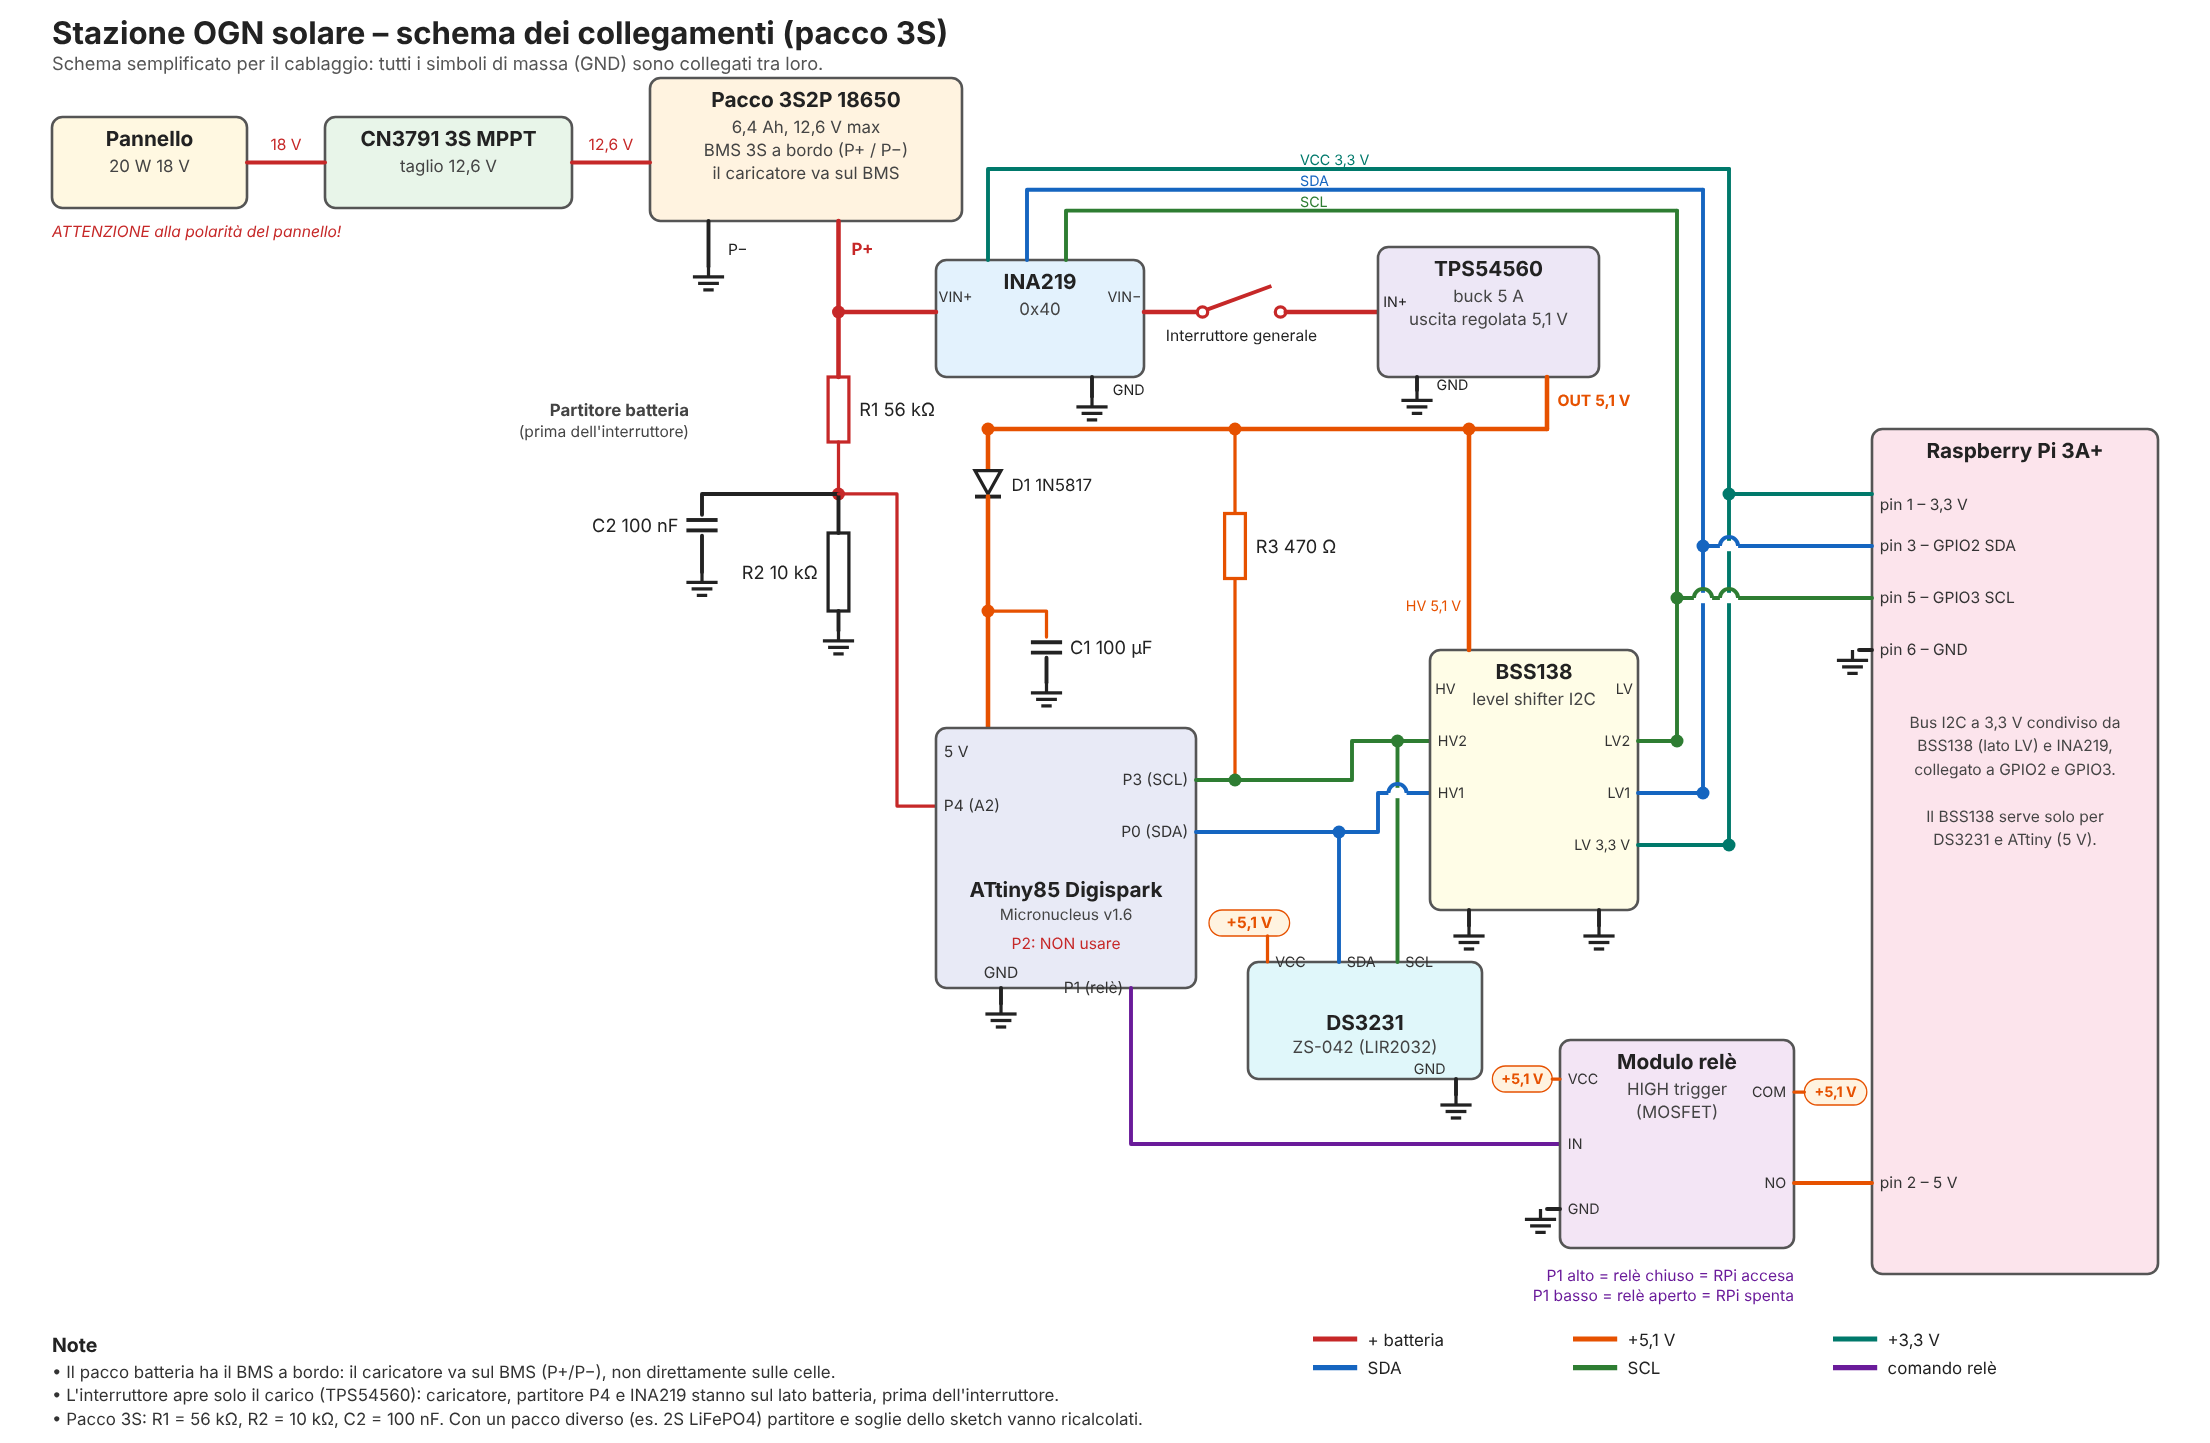
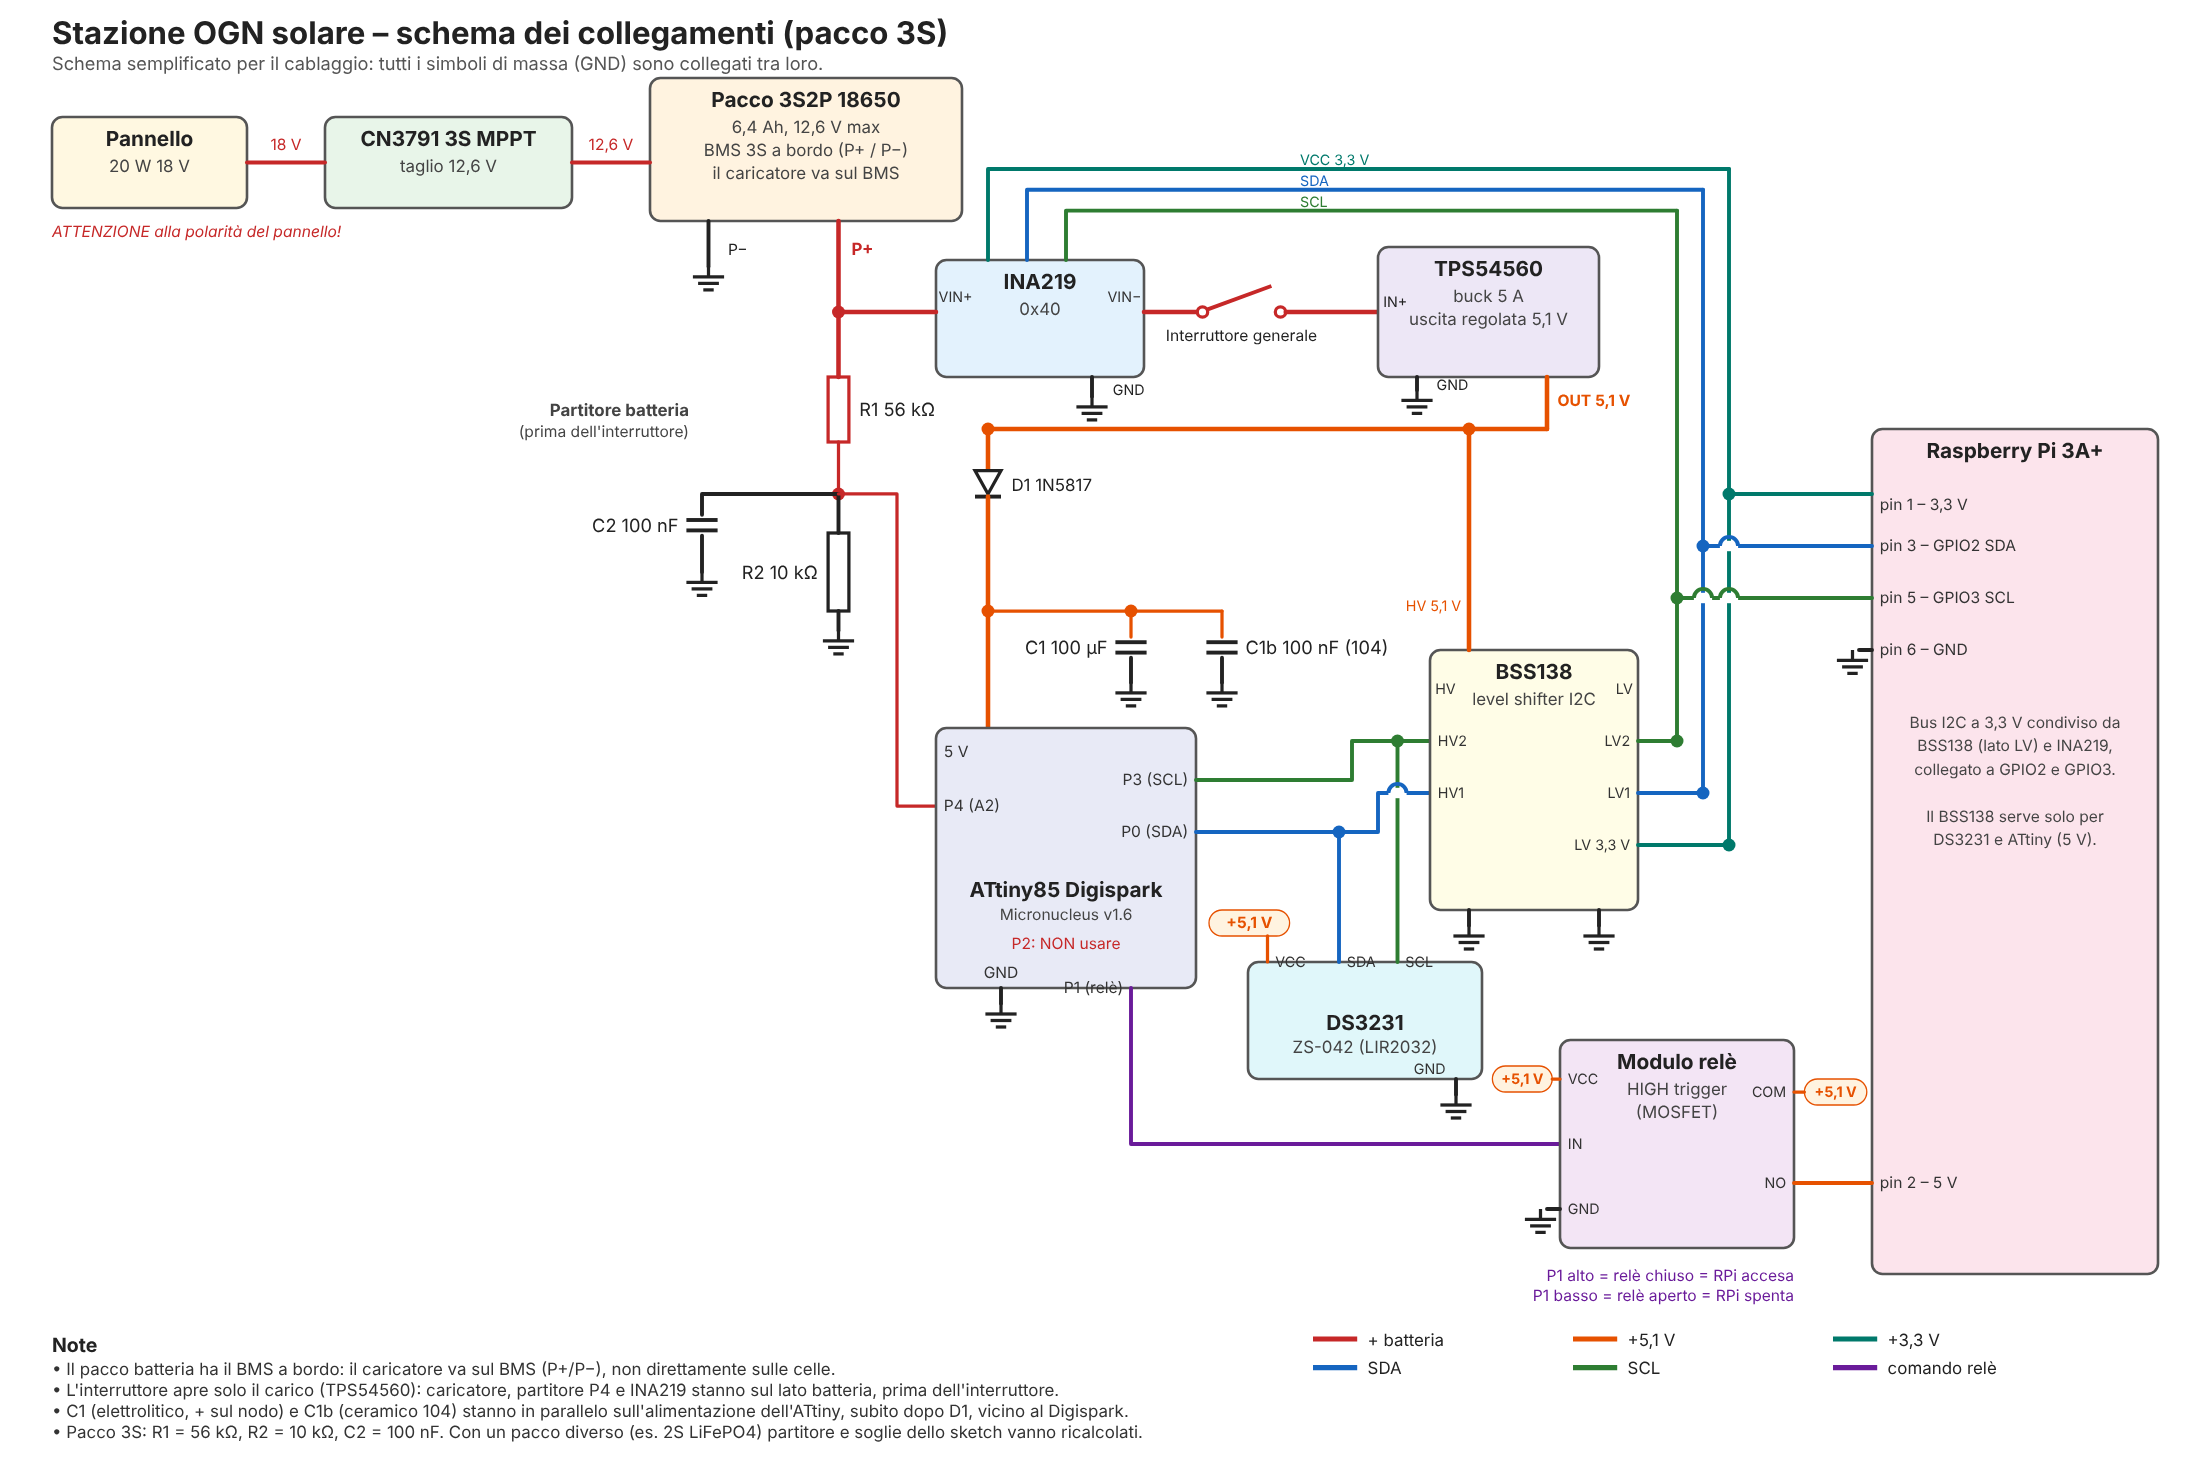
Schema e documentazione: rimossa R3 (pull-up 470 ohm), aggiunto C1b 100 nF in parallelo a C1
Claude-Session: https://claude.ai/code/session_01PcGQ9EdoJzeQdK5e1YwwCo

diff --git a/OGN-Solar-Receiver-Documentazione_1.6.md b/OGN-Solar-Receiver-Documentazione_1.6.md
@@ -84,8 +84,8 @@ Alle 10:00 CEST un ATtiny85 legge l'orario da un RTC DS3231 e chiude un relè ch
 | R2 | 10 kΩ | Partitore batteria (lato basso) |
 | C2 | 100 nF ceramico | Tra P4 e GND, stabilizza la lettura ADC |
 | D1 | 1N5817 Schottky | In serie su VCC ATtiny |
-| C1 | 100 µF elettrolitico | Su VCC ATtiny |
-| R3 | 470 Ω | Pull-up SCL su P3 verso 5 V |
+| C1 | 100 µF elettrolitico (+ sul nodo VCC) | Su VCC ATtiny, dopo D1 |
+| C1b | 100 nF ceramico (104) | In parallelo a C1, vicino al Digispark |
 
 ---
 
@@ -138,7 +138,7 @@ ATtiny85 Digispark      Collegamento
 P0 (SDA)         ------ SDA DS3231 (lato HV del BSS138)
 P1 (Relè)        ------ IN modulo relè (HIGH trigger)
 P2                      NON USARE (problemi bootloader v1.6)
-P3 (SCL)         ------ SCL DS3231 (lato HV del BSS138) + pull-up 470 Ω a 5 V
+P3 (SCL)         ------ SCL DS3231 (lato HV del BSS138)  [pull-up già sul Digispark (1,5 kΩ) e sul modulo DS3231]
 P4 (A2, ADC)     ------ nodo partitore batteria (+ 100 nF verso GND)
 5V               ------ catodo 1N5817 (anodo sul 5.1 V) + 100 µF verso GND
 GND              ------ GND
@@ -216,8 +216,7 @@ P1 HIGH = relè chiuso  = RPi ACCESA
 
 1. **Partitore:** + batteria → R1 (56 kΩ) → nodo P4 → R2 (10 kΩ) → GND, con 100 nF tra P4 e GND.
 2. **Diodo:** 5.1 V → anodo 1N5817 → catodo → VCC Digispark. Evita i reset quando la RPi assorbe corrente all'avvio.
-3. **Pull-up SCL:** 5 V → 470 Ω → P3.
-4. **Condensatore:** VCC Digispark → 100 µF → GND.
+3. **Condensatori:** VCC Digispark → 100 µF (+ sul nodo) → GND, e 100 nF (104) in parallelo. Nessuna resistenza di pull-up aggiuntiva su SCL.
 5. **BSS138:** lato LV su RPi GPIO2/GPIO3 + 3.3 V, lato HV su DS3231 e ATtiny P0/P3 + 5 V, GND comune.
 6. **INA219:** pin 3 e 5 della RPi, 3.3 V, GND; VIN+/VIN− come da schema.
 7. **Interruttore:** tra uscita BMS (P+) e IN+ del TPS54560. Caricatore, partitore e INA219 prima dell'interruttore.
